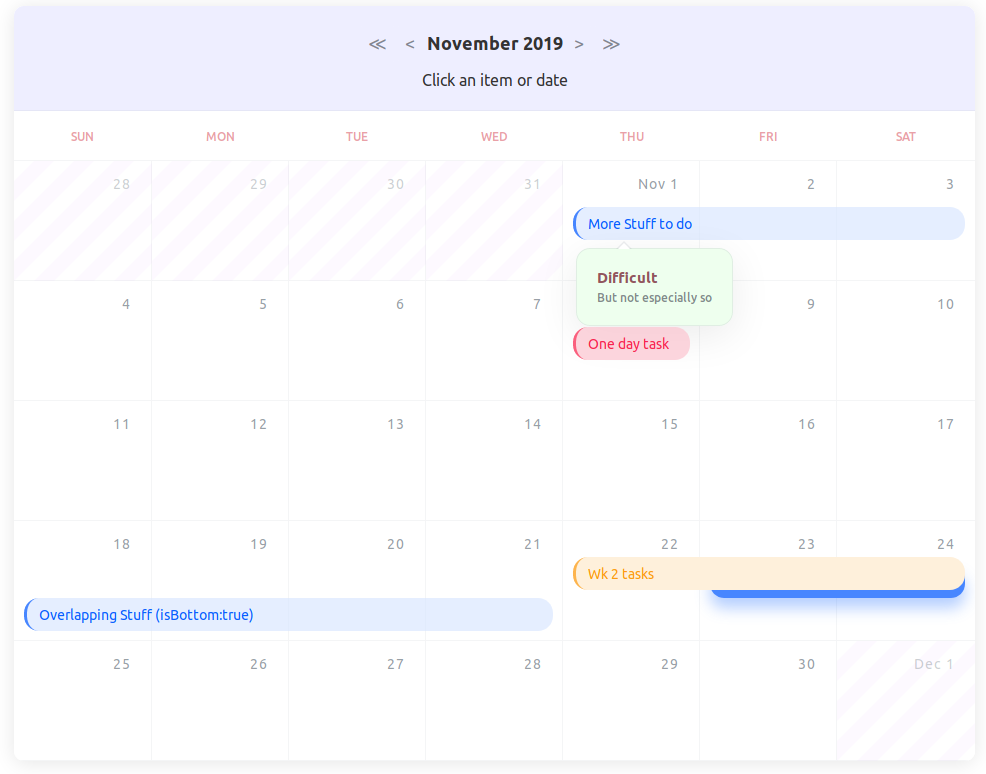
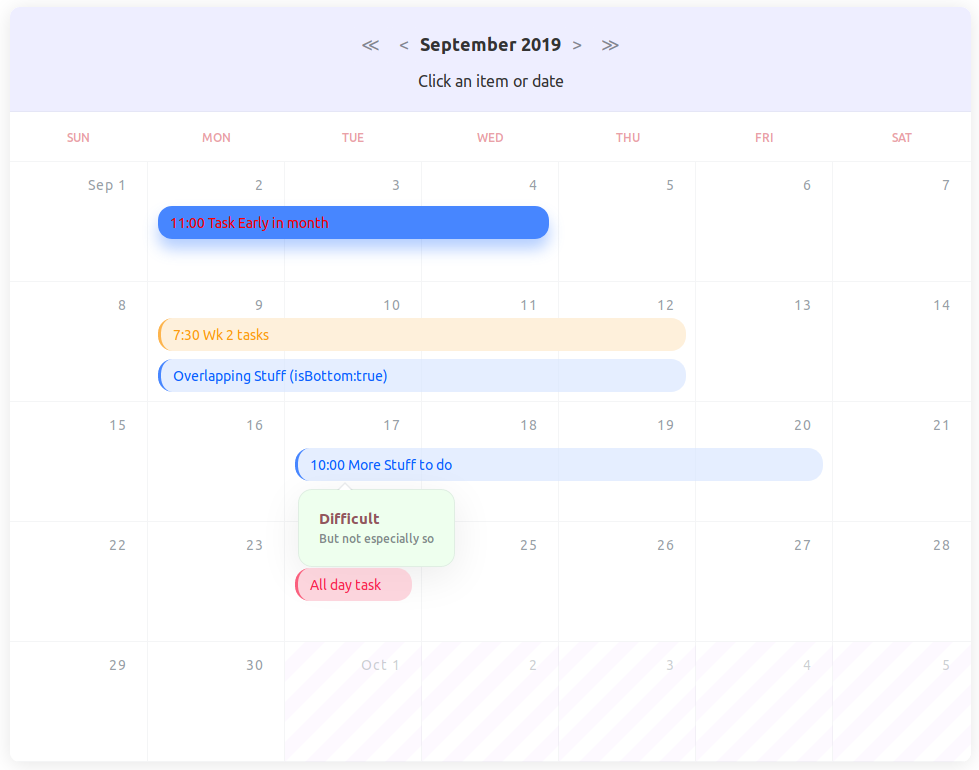
firstDay fix.

diff --git a/src/App.svelte b/src/App.svelte
@@ -4,7 +4,8 @@
 
 	var dayNames = ["Sun", "Mon", "Tue", "Wed", "Thu", "Fri", "Sat"];
 	let monthNames = ["January", "February", "March", "April", "May", "June", "July", "August", "September", "October", "November", "December"];
-	
+
+	let headers = [];
 	let now = new Date();
 	let year = now.getFullYear();		//	this is the month & year displayed
 	let month = now.getMonth();
@@ -22,19 +23,23 @@
 	//	And, if an item overlaps rows, then you need to add a 2nd item on the subsequent row.
 	var items = [];
 
-	function initItems() {
+	function initMonthItems() {
 		let y = year;
 		let m = month;
+		let d1=new Date(y,m,randInt(7)+7);
 		items=[
-			{title:"Task Early in month",className:"task--primary",date:new Date(y,m,randInt(28)),len:randInt(4)+1},
-			{title:"Wk 2 tasks",className:"task--warning",date:new Date(y,m,randInt(28)),len:randInt(4)+2},
-			{title:"Overlapping Stuff (isBottom:true)",date:new Date(y,m,randInt(28)),className:"task--info",len:4,isBottom:true},
-			{title:"More Stuff to do",date:new Date(y,m,randInt(28)),className:"task--info",len:randInt(4)+1,detailHeader:"Difficult",detailContent:"But not especially so"},
-			{title:"One day task",date:new Date(y,m,randInt(28)),className:"task--danger",len:1},
+			{title:"11:00 Task Early in month",className:"task--primary",date:new Date(y,m,randInt(6)),len:randInt(4)+1},
+			{title:"7:30 Wk 2 tasks",className:"task--warning",date:d1,len:randInt(4)+2},
+			{title:"Overlapping Stuff (isBottom:true)",date:d1,className:"task--info",len:4,isBottom:true},
+			{title:"10:00 More Stuff to do",date:new Date(y,m,randInt(7)+14),className:"task--info",len:randInt(4)+1,detailHeader:"Difficult",detailContent:"But not especially so"},
+			{title:"All day task",date:new Date(y,m,randInt(7)+21),className:"task--danger",len:1,vlen:2},
 		];
+
+		//This is where you calc the row/col to put each dated item
 		for (let i of items) {
 			let rc = findRowCol(i.date);
 			if (rc == null) {
+				console.log('didn`t find date for ',i);
 				console.log(i.date);
 				console.log(days);
 				i.startCol = i.startRow = 0;
@@ -45,17 +50,22 @@
 		}
 	}
 
-	$: month,year,initDays(),initItems(); 
-	
-	initDays();
-	
+	$: month,year,initContent();
+
 	// choose what date/day gets displayed in each date box.
-	function initDays() {
+	function initContent() {
+		headers = dayNames;
+		initMonth();
+		initMonthItems();
+	}
+
+	function initMonth() {
 		days = [];
 		let monthAbbrev = monthNames[month].slice(0,3);
 		let nextMonthAbbrev = monthNames[(month+1)%12].slice(0,3);
 		//	find the last Monday of the previous month
-		var firstDay = new Date(year, month, 1).getDay()-1;
+		var firstDay = new Date(year, month, 1).getDay();
+		//console.log('fd='+firstDay+' '+dayNames[firstDay]);
 		var daysInThisMonth = new Date(year, month+1, 0).getDate();
 		var daysInLastMonth = new Date(year, month, 0).getDate();
 		var prevMonth = month==0 ? 11 : month-1;
@@ -92,13 +102,28 @@
 	}
 
 	function itemClick(e) {
-		eventText='itemClick '+JSON.stringify(e);
+		eventText='itemClick '+JSON.stringify(e) + ' localtime='+e.date.toString();
 	}
 	function dayClick(e) {
-		eventText='onDayClick '+JSON.stringify(e);
+		eventText='onDayClick '+JSON.stringify(e) + ' localtime='+e.date.toString();
 	}
 	function headerClick(e) {
 		eventText='onHheaderClick '+JSON.stringify(e);
+	}
+	function next() {
+		month++;
+		if (month == 12) {
+			year++;
+			month=0;
+		}
+	}
+	function prev() {
+		if (month==0) {
+			month=11;
+			year--;
+		} else {
+			month--;
+		}
 	}
 	
 </script>
@@ -107,21 +132,21 @@
   <div class="calendar-header">
     <h1>
       <button on:click={()=>year--}>&Lt;</button>
-      <button on:click={()=>{if (month==0) month=11;else {year--;month--;}}}>&lt;</button>
+      <button on:click={()=>prev()}>&lt;</button>
        {monthNames[month]} {year}
-      <button on:click={()=>{month++;if (month == 12) year++; month%=12;}}>&gt;</button>
+      <button on:click={()=>next()}>&gt;</button>
       <button on:click={()=>year++}>&Gt;</button>
     </h1>
 		{eventText}
-  </div>
+	</div>
 
 	<Calendar
-					{dayNames}
-					{days}
-					{items}
-					on:dayClick={(e)=>dayClick(e.detail)}
-					on:itemClick={(e)=>itemClick(e.detail)}
-					on:headerClick={(e)=>headerClick(e.detail)}
+		{headers}
+		{days}
+		{items}
+		on:dayClick={(e)=>dayClick(e.detail)}
+		on:itemClick={(e)=>itemClick(e.detail)}
+		on:headerClick={(e)=>headerClick(e.detail)}
 		/>
 </div>
 	

diff --git a/src/Calendar.svelte b/src/Calendar.svelte
@@ -1,6 +1,6 @@
 <div class="calendar">
-	{#each dayNames as dayName}
-	<span class="day-name" on:click={()=>dispatch('headerClick',dayName)}>{dayName}</span>
+	{#each headers as header}
+	<span class="day-name" on:click={()=>dispatch('headerClick',header)}>{header}</span>
 	{/each}
 
 	{#each days as day}
@@ -15,8 +15,9 @@
 		<section
 			on:click={()=>dispatch('itemClick',item)} 
 			class="task {item.className}"
-			style="grid-column: {item.startCol} / span {item.len};
-			grid-row: {item.startRow};  align-self: {item.isBottom?`end`:`center`};"
+      style="grid-column: {item.startCol} / span {item.len};      
+      grid-row: {item.startRow};  
+      align-self: {item.isBottom?'end':'center'};"
 			>
 			{item.title}
 			{#if item.detailHeader}
@@ -32,7 +33,7 @@
 <script>
 	import {createEventDispatcher, onMount} from 'svelte';
 
-	export var dayNames = [];
+	export var headers = [];
 	export let days = [];
 	export let items = [];
 	
